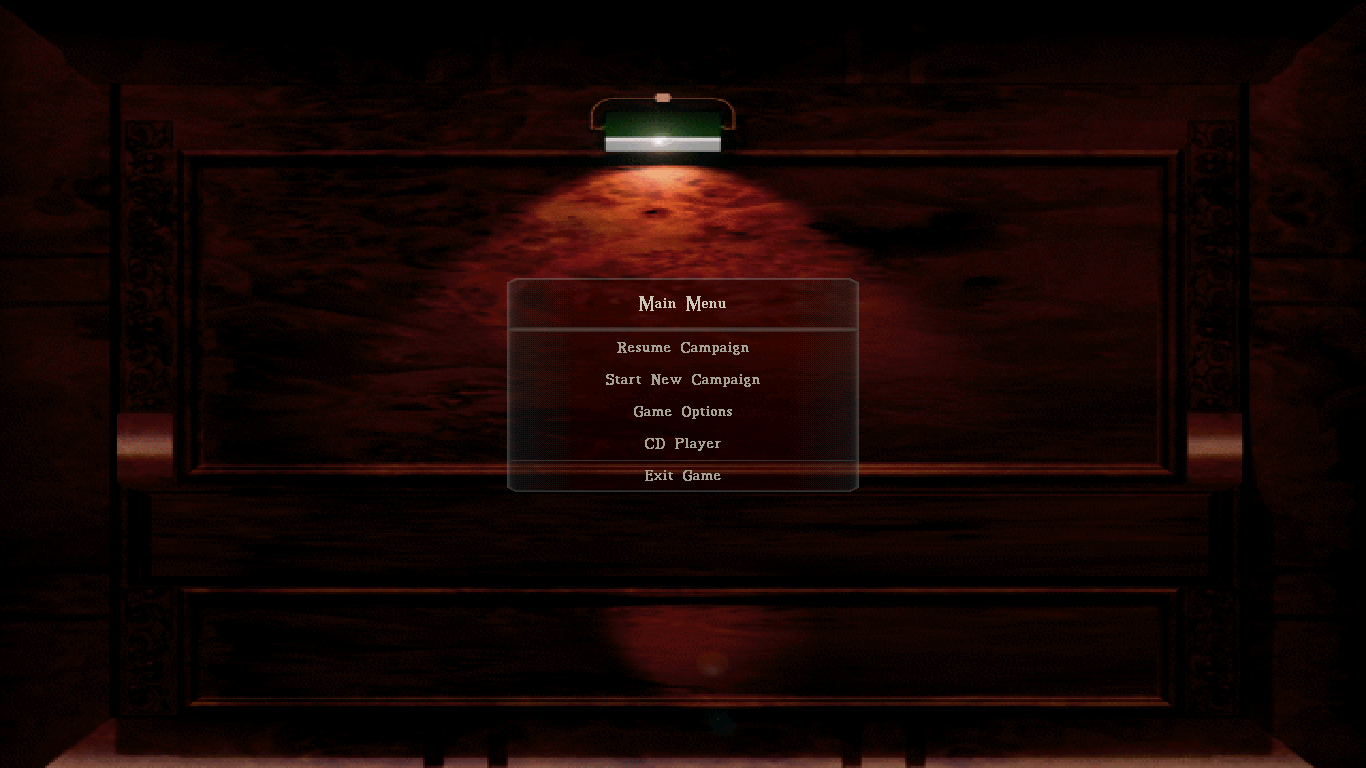
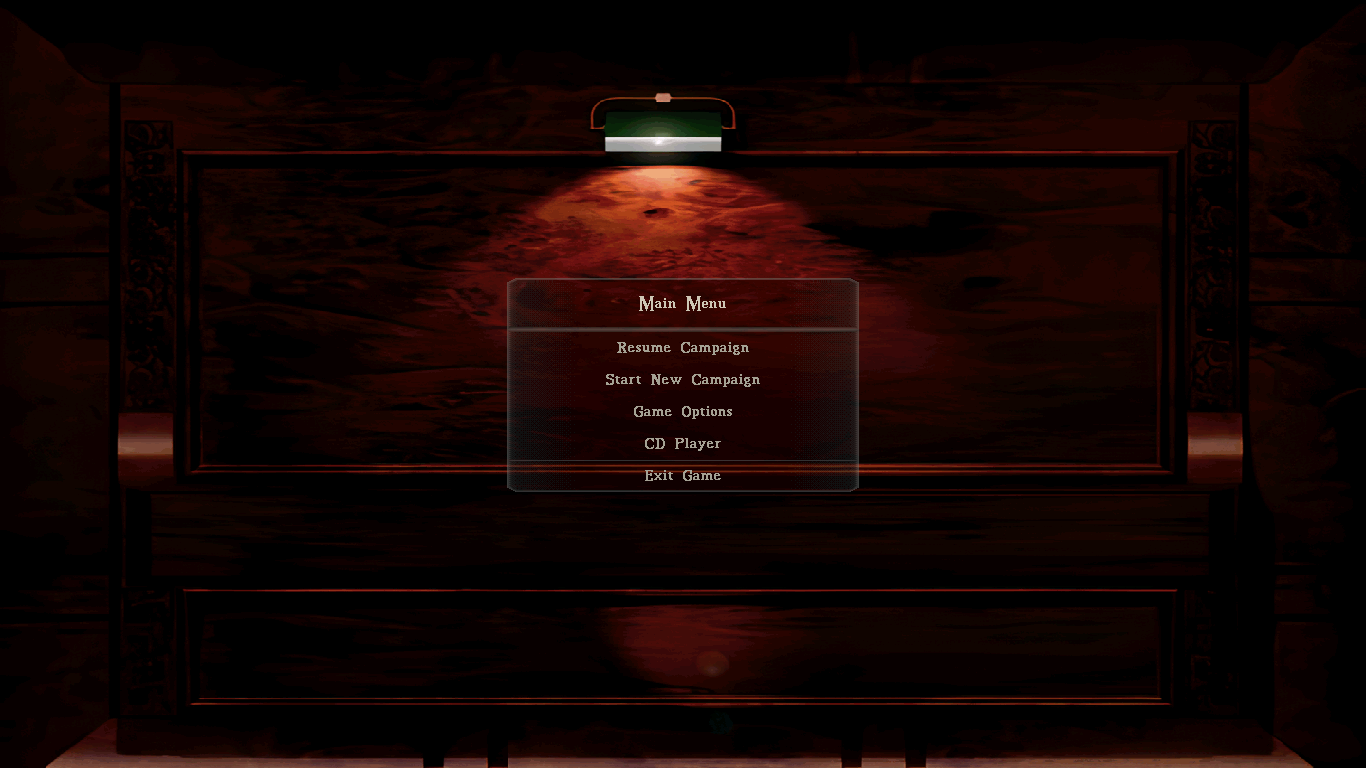
updated main menu backgrounds

diff --git a/README.md b/README.md
@@ -121,26 +121,6 @@ Discord server : https://discord.gg/bwG6Z3RK8b
 
 Some quality of life changes have been made to the game, from incorrect text entries to the removal of unnecessary buttons.
 
-Rescaled menu sprites for all supported resolutions which are swapped around when changing the resolution in the launcher.
-
-Human Background Menu
-
-<div align="center">
-  <img src="images/menu-background-human.png" alt="Human Background Menu">
-</div>
-
-Martian Background Menu
-
-<div align="center">
-  <img src="images/menu-background-martian.png" alt="Martian Background Menu">
-</div>
-
-Original Backround Menu
-
-<div align="center">
-  <img src="images/menu-background-original.png" alt="Menu Background Original">
-</div>
-
 Critical Event Options - Edited
 
 This was fixed by adding two leading spaces to the TEXT.ojd file for these entries.
@@ -224,6 +204,28 @@ A custom Smackw32.dll that intercepts the original smacker calls and replaces th
 ![Video Playback Intercept](images/wrapper.png)
 
 ## Custom Extended Backgrounds
+
+Upscaled menu sprites for all supported resolutions which are swapped around when changing the resolution in the launcher.
+
+Human Background Menu
+
+<div align="center">
+  <img src="images/menu-background-human.png" alt="Human Background Menu">
+</div>
+
+Martian Background Menu
+
+<div align="center">
+  <img src="images/menu-background-martian.png" alt="Martian Background Menu">
+</div>
+
+Original Backround Menu
+
+All of the original menu backgrounds sat in the corner at 640x480 no matter the resolution you were using.
+
+<div align="center">
+  <img src="images/menu-background-original.png" alt="Menu Background Original">
+</div>
 
 These are a work in-progress, AI (Gemini) was used to generate portions of the extended backgrounds, but they have undergone extensive editing.
 
